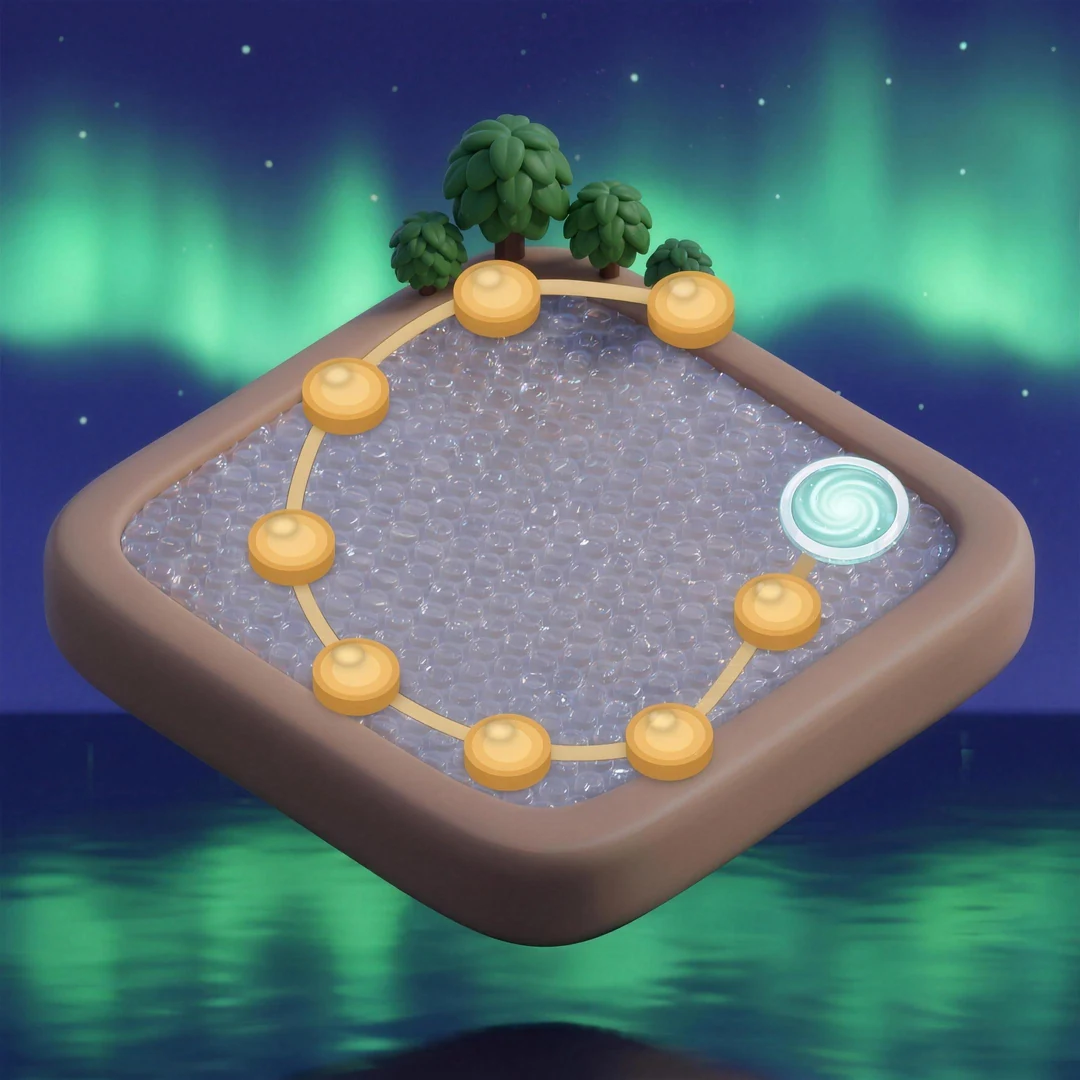
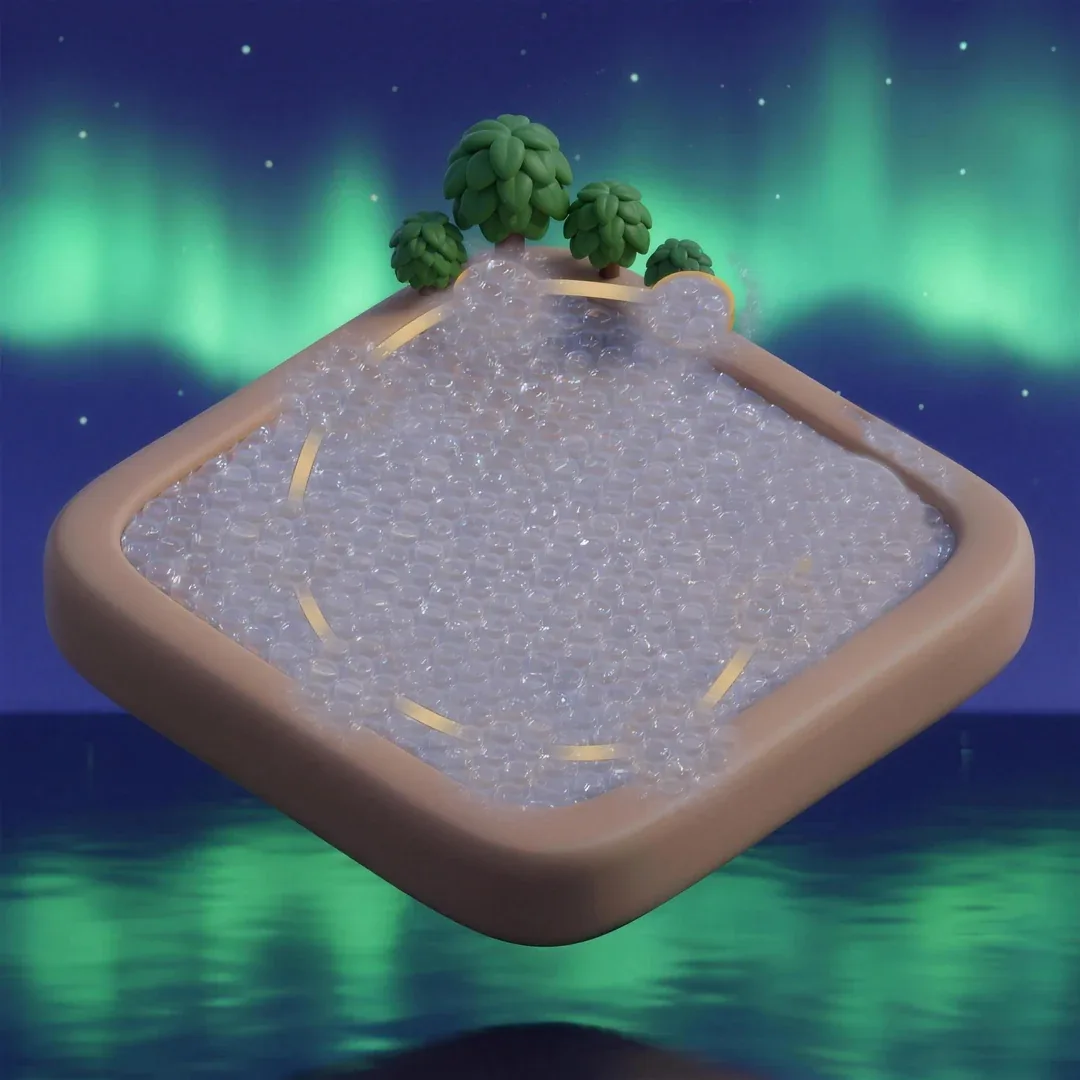
feat(pop-zen): clean pad-free islands + code-drawn rope & portal
Swap in Cowork's pad-free island art (pads + baked portal removed, rope kept,
framing pixel-identical). Re-encoded the clean PNG masters to WebP with native
sharp. Since the pads are gone, the journey now reads only via our oval markers:
- Draw the rope/path in code (SVG) through each marker centre and on to the portal
  — one line in, one out per marker, sitting behind the discs.
- Render the portal from portal.webp (no longer baked) and push World 1's farther
  down-left of the last node; portals show dimmed until unlocked.

diff --git a/apps/pop-zen/src/routes/map.tsx b/apps/pop-zen/src/routes/map.tsx
@@ -17,6 +17,7 @@ import world1 from "../assets/scene/world-1.webp";
 import world2 from "../assets/scene/world-2.webp";
 import world3 from "../assets/scene/world-3.webp";
 import world4 from "../assets/scene/world-4.webp";
+import portalImg from "../assets/shell/portal.webp";
 
 const WORLD_BG = [world1, world2, world3, world4];
 // The baked tan pads are all the same isometric-oval footprint: ~12.6% wide ×
@@ -29,6 +30,14 @@ const PAD_W = 12.6;
 // the DISC — not the square canvas — lands exactly on the pad centre.
 const OVAL_FILL = 0.91;
 const MARKER_SCALE = 0.72; // ~28% smaller than a pad-sized marker (20% then a further 10%)
+const PORTAL_W = 15; // portal sprite width as a % of the square island
+
+// Build the SVG path (viewBox 0..100) for the rope that links the 8 nodes in order
+// and continues to the portal. Drawn BEHIND the markers so each disc covers its
+// node — the rope reads as one line entering and one leaving each marker.
+function ropePath(nodes: [number, number][], portal: [number, number]): string {
+  return [...nodes, portal].map((p, i) => `${i === 0 ? "M" : "L"} ${p[0]} ${p[1]}`).join(" ");
+}
 const DISC_CY = 0.47; // disc's vertical centre as a fraction of the sprite canvas
 // Square box whose disc renders at MARKER_SCALE × the pad width.
 const NODE_BOX = +((PAD_W / OVAL_FILL) * MARKER_SCALE).toFixed(2); // ≈ 11.08
@@ -86,10 +95,10 @@ const WORLD_NODES: [number, number][][] = [
     [72.0, 56.0],
   ],
 ];
-// The portal sits just past pad8, baked into each image (world-maps v3). Tapping
-// it advances to the next world's first phase (when unlocked).
+// Portal position per world (now DRAWN in code, so freely placeable). World 1's is
+// pushed farther down-left of the last node (pad 8) than the old baked one.
 const WORLD_PORTALS: [number, number][] = [
-  [36.8, 63.3],
+  [30.5, 64.5],
   [67.7, 35.6],
   [45.0, 70.5],
   [78.2, 46.9],
@@ -333,6 +342,34 @@ function MapPage() {
                 className="pointer-events-none absolute inset-0"
                 style={{ background: "rgba(255,255,255,0.08)" }}
               />
+              {/* Rope/path connecting the nodes → portal, drawn in code so it runs
+                  exactly through each marker centre (one line in, one out) and
+                  reaches the portal. Sits behind the markers. */}
+              <svg
+                aria-hidden
+                viewBox="0 0 100 100"
+                preserveAspectRatio="none"
+                className="pointer-events-none absolute inset-0"
+                style={{ width: "100%", height: "100%" }}
+              >
+                <path
+                  d={ropePath(WORLD_NODES[wi], WORLD_PORTALS[wi])}
+                  fill="none"
+                  stroke="#b98a52"
+                  strokeWidth={3.4}
+                  strokeLinecap="round"
+                  strokeLinejoin="round"
+                  opacity={0.85}
+                />
+                <path
+                  d={ropePath(WORLD_NODES[wi], WORLD_PORTALS[wi])}
+                  fill="none"
+                  stroke="#f0d6a0"
+                  strokeWidth={1.7}
+                  strokeLinecap="round"
+                  strokeLinejoin="round"
+                />
+              </svg>
               {/* world name chip */}
               <div className="absolute left-3 top-3 z-10">
                 <span
@@ -408,33 +445,47 @@ function MapPage() {
                 );
               })}
 
-              {/* Portal past pad 8 — baked into the art; a tap here continues to
-                  the next world's first phase once it's unlocked. */}
+              {/* Portal past pad 8 — now DRAWN in code (portal.webp) rather than baked
+                  into the island, so it can sit farther from the last node. It shows
+                  on every world that has a next one, dimmed until unlocked; a tap
+                  advances to the next world's first phase. */}
               {(() => {
                 const [px, py] = WORLD_PORTALS[wi];
                 const nextStage = world * PHASES_PER_ROUND + 1; // first phase of next world
-                const unlocked =
-                  nextStage <= TOTAL_ROUNDS * PHASES_PER_ROUND && reached >= nextStage;
-                if (!unlocked) return null;
+                if (nextStage > TOTAL_ROUNDS * PHASES_PER_ROUND) return null; // last world → no portal
+                const unlocked = reached >= nextStage;
                 return (
                   <button
                     type="button"
-                    onClick={() => {
-                      track("portal_used", { from_world: world, to_world: world + 1 });
-                      openEquip(nextStage);
-                    }}
+                    onClick={
+                      unlocked
+                        ? () => {
+                            track("portal_used", { from_world: world, to_world: world + 1 });
+                            openEquip(nextStage);
+                          }
+                        : undefined
+                    }
+                    disabled={!unlocked}
                     aria-label={t("map.portal")}
-                    className="absolute -translate-x-1/2 -translate-y-1/2 rounded-full"
+                    className="absolute -translate-x-1/2 -translate-y-1/2"
                     style={{
                       left: `${px}%`,
                       top: `${py}%`,
-                      width: "17%",
-                      aspectRatio: "1 / 1",
+                      width: `${PORTAL_W}%`,
                       border: 0,
                       background: "transparent",
-                      cursor: "pointer",
+                      padding: 0,
+                      cursor: unlocked ? "pointer" : "default",
+                      opacity: unlocked ? 1 : 0.55,
                     }}
-                  />
+                  >
+                    <img
+                      src={portalImg}
+                      alt=""
+                      aria-hidden
+                      style={{ width: "100%", height: "auto", display: "block" }}
+                    />
+                  </button>
                 );
               })()}
             </section>

diff --git a/apps/pop-zen/store-assets/COWORK-ART-DELIVERED-clean-islands.md b/apps/pop-zen/store-assets/COWORK-ART-DELIVERED-clean-islands.md
@@ -1,0 +1,20 @@
+# Zen Bubbles — clean island bases (delivered)
+
+Clean versions of the four world islands with the baked **level pads** and the **teal portal swirl** removed, since markers and the portal are now drawn in code. Everything else is preserved exactly.
+
+## Deliverables
+`src/assets/scene/world-1-clean.png … world-4-clean.png` — committed next to the originals. Also sent in the Cowork conversation.
+
+- **1080×1080 PNG**, identical to the shipped `world-*.webp` (same size, crop, island position & scale — edited directly on the actual files, **no AI re-render, no upscaler**).
+- Re-encode to WebP with the project's native `sharp` and swap in as the base island images.
+
+## What was removed vs kept
+- **Removed:** the 8 tan stepping-stone pads and the teal portal swirl (+ its glow). Filled with matching bubble-wrap sampled from each island's own ground, lighting-matched.
+- **Kept, untouched (pixel-identical):** island shape/size/framing, tan border, the **golden connecting rope/path**, trees & palms, bubble-wrap ground, lighting, sky and ocean. Verified: >99.7% of every image is byte-identical to the original; only the pad/portal footprints changed — so your fixed-% marker coordinates still line up.
+
+## Method (for reference)
+Programmatic inpainting (not diffusion): each pad/portal footprint was replaced by feathered, color-matched patches copied from nearby pure bubble-wrap on the same island, with the tan border and green foliage protected from over-paint. This guarantees the framing/scale constraint.
+
+## Notes
+- A couple of extremely faint soft spots remain where a portal met the border (World 3, bottom-center) or near the trees (World 4, top) — sub-perceptible and in non-node areas; the code markers/path sit elsewhere. Happy to touch up further if any show in-game.
+- **Optional fresh portal sprite:** not generated (you already render `portal.webp`). Say the word and I'll produce a matching one.
